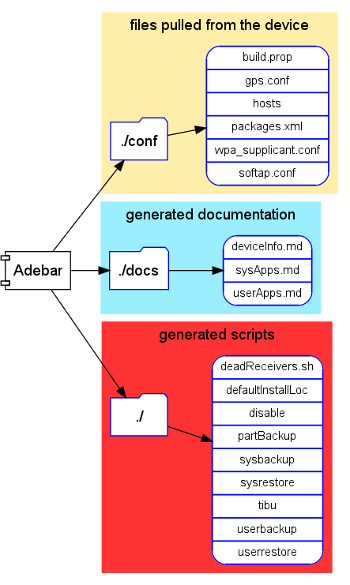
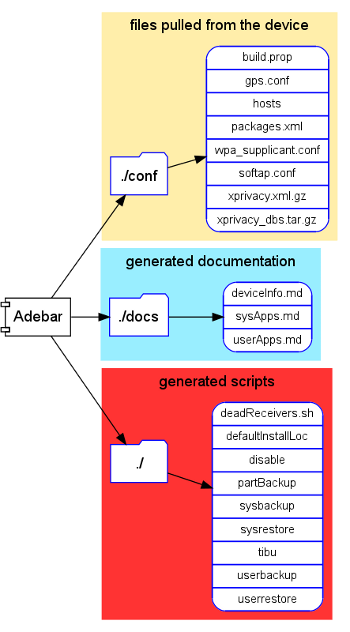
added XPrivacy files and config updates

Changed region(s): [[0.0, 0.0308, 0.9714, 0.9846]]

diff --git a/Configuration.md b/Configuration.md
@@ -93,6 +93,20 @@ and `1` stands for „on”. By default, all features are enabled (i.e. set to `
 * `MK_APPDISABLE`: the script to „freeze/disable“ apps
 * `MK_USERBACKUP`/`MK_SYSBACKUP`: create the script to backup user apps+data /
   system app-data
+* `MK_APPRESTORE_DELAY`: on restore, ADB sometimes simply „aborts“ when a second
+  restore command comes in while it's still processing the first – so subsequent
+  commands get lost (waiting for the user to accept them on the device which
+  doesn't prompt for it). Hence you can configure how to deal with that (you can
+  play with the values to find what fits you best):
+    * `p` will prompt you on the computer when to send the next command
+    * `0` will simply „hammer them in“ expecting the device to cope with it
+    * an integer value larger than `0` will pause for that amount of seconds
+      before sending the next `adb restore` command.
+* `MK_XPRIVACY_EXPORT`: whether to trigger a data export of XPrivacy. Disabled (`0`)
+  by default, so Adebar doesn't have to check for its presence unnecessarily.
+  Set to `1` to enable it.
+* `MK_XPRIVACY_PULL`: whether to pull XPrivacy's databases. Disabled (`0`) by
+  default as it requires root; set to `1` to enable it.
 * `PULL_SETTINGS`: pull settings/configs from the device (currently just
   `wpa_supplicant.conf`, but there might be more in the future)
 * `MK_TIBU`: create the script to pull stuff from the TiBu web server.

diff --git a/Files.md b/Files.md
@@ -47,6 +47,8 @@
     * `packages.xml`
     * `wpa_supplicant.conf`: contains all your WiFi APs, their passwords, etc.
     * `softap.conf`: contains your WiFi hotspot SSID and password hash
+    * `xprivacy.xml.gz`: export of XPrivacy settings
+    * `xprivacy_dbs.tar.gz`: pull of XPrivacy databases
 
 Note that not all of those files are generated in all cases. Some depend on conditions:
 
